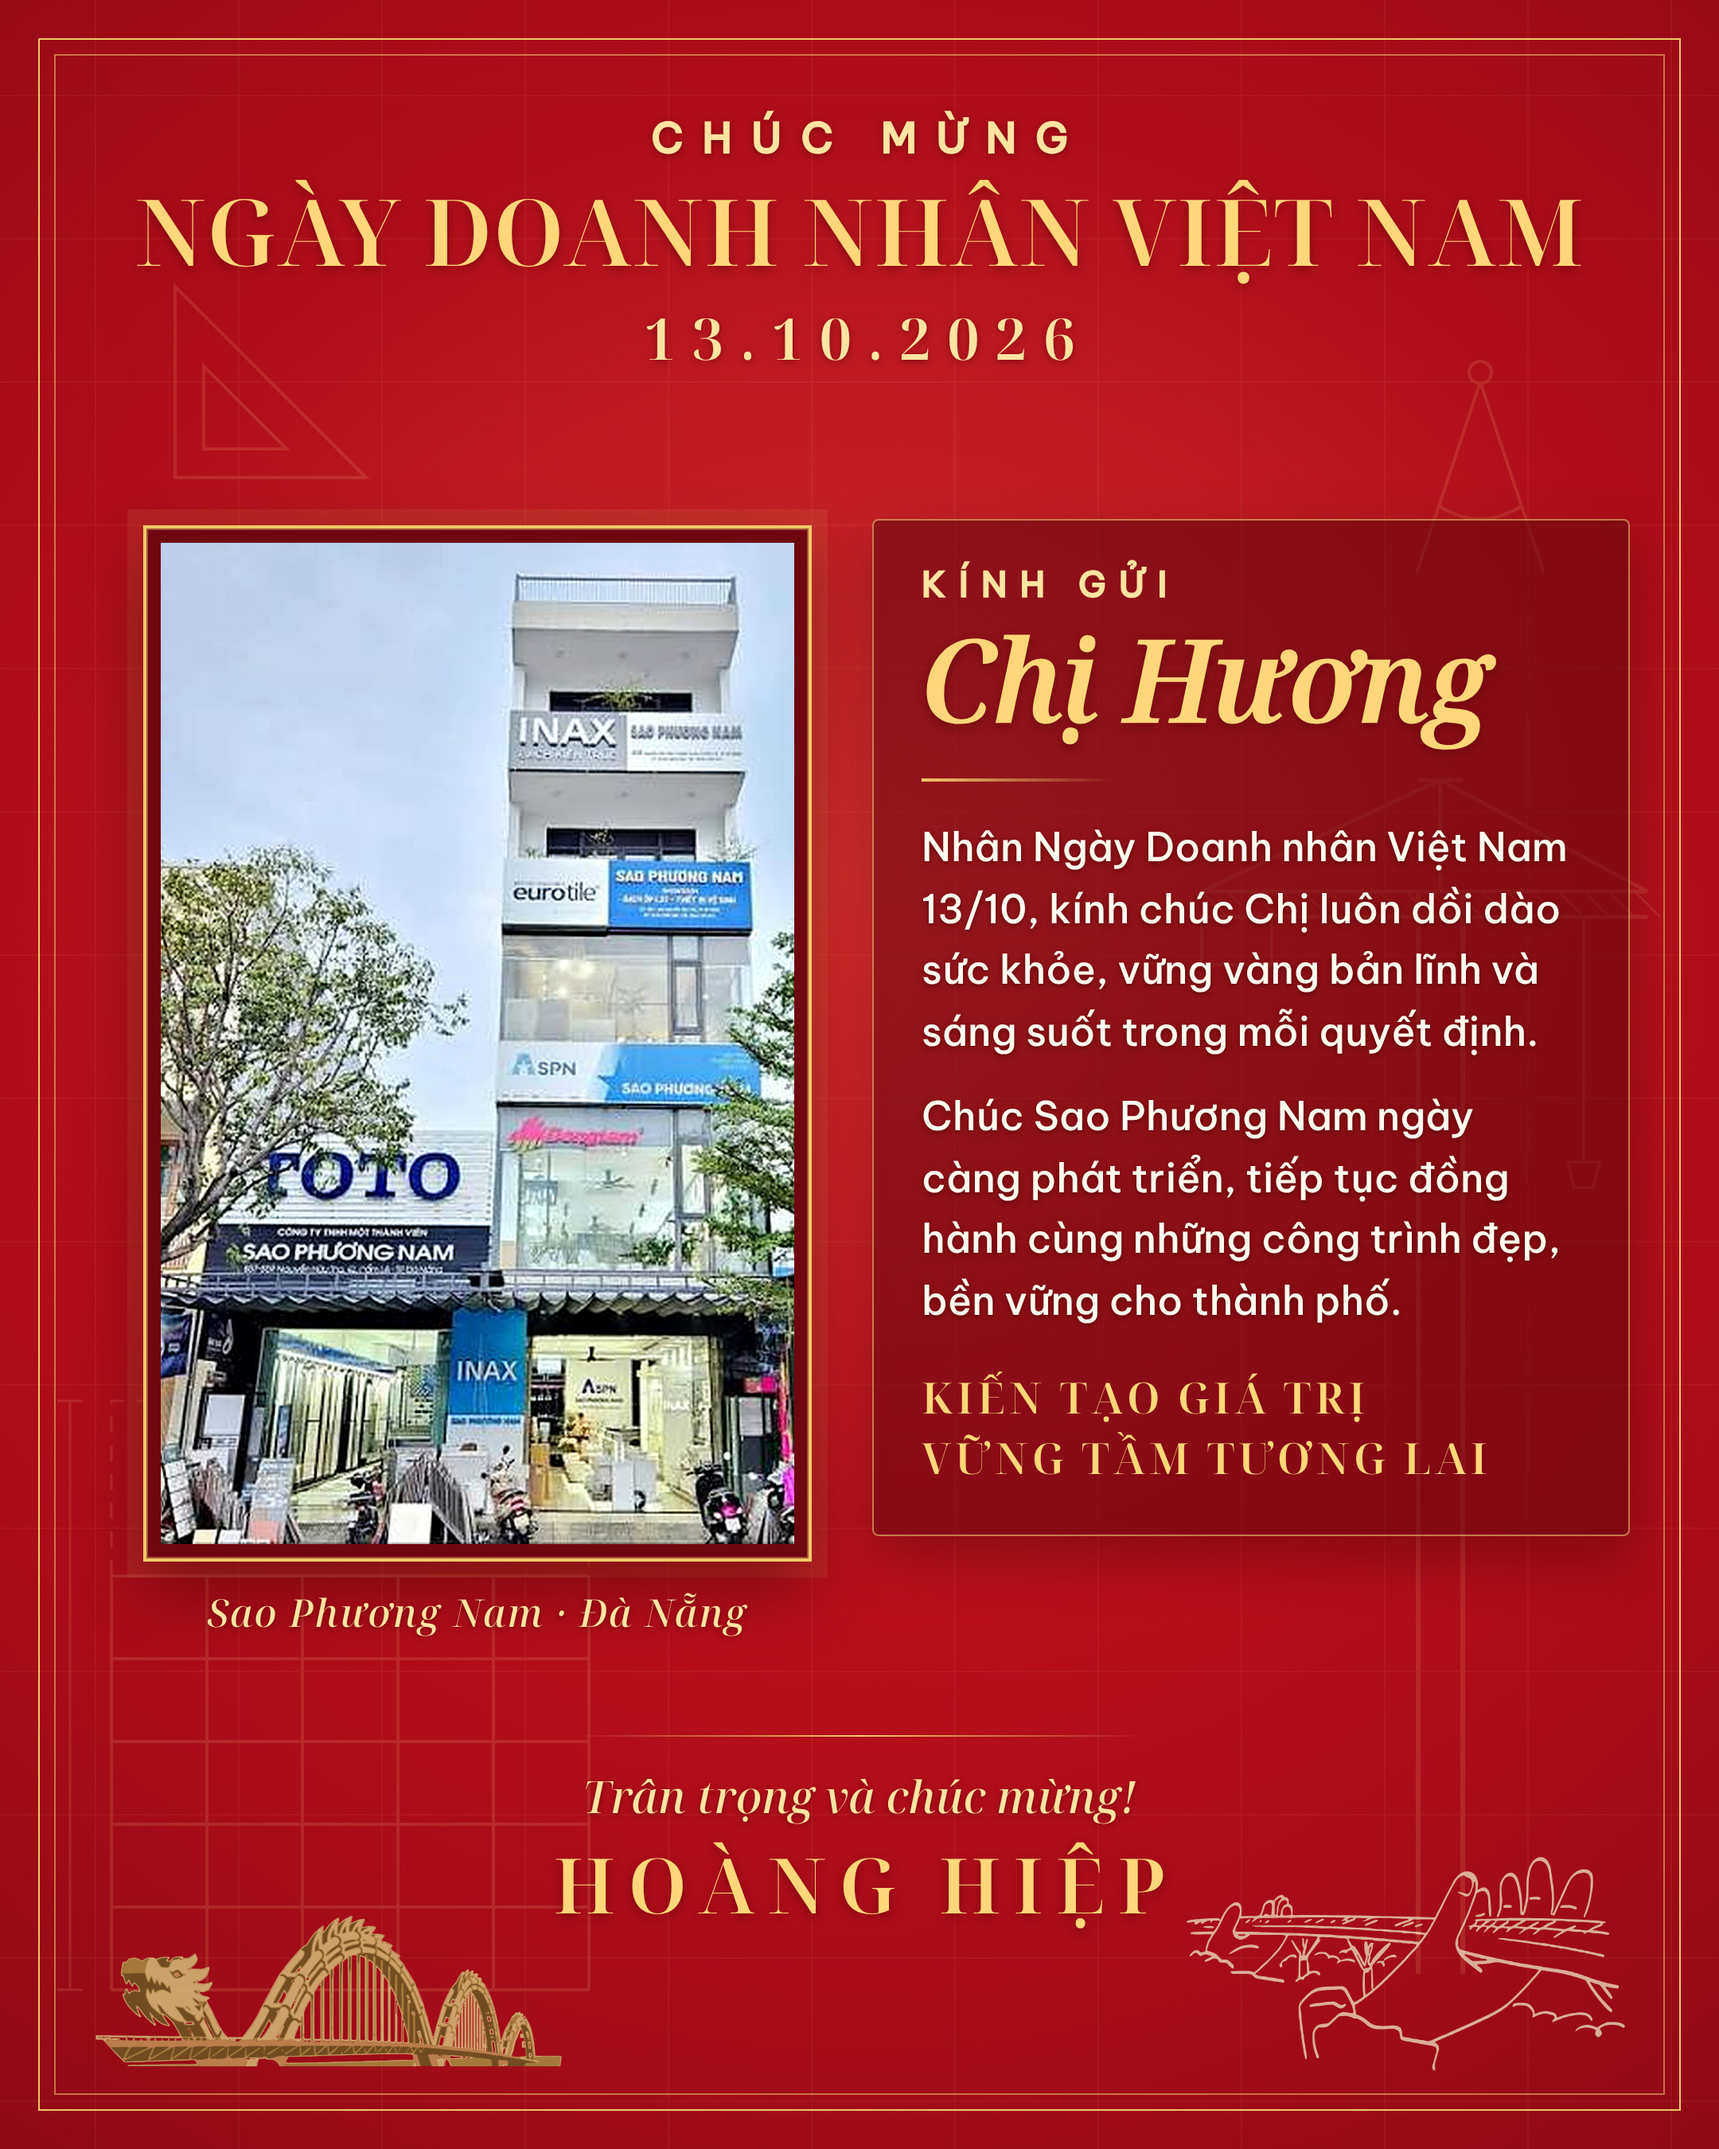
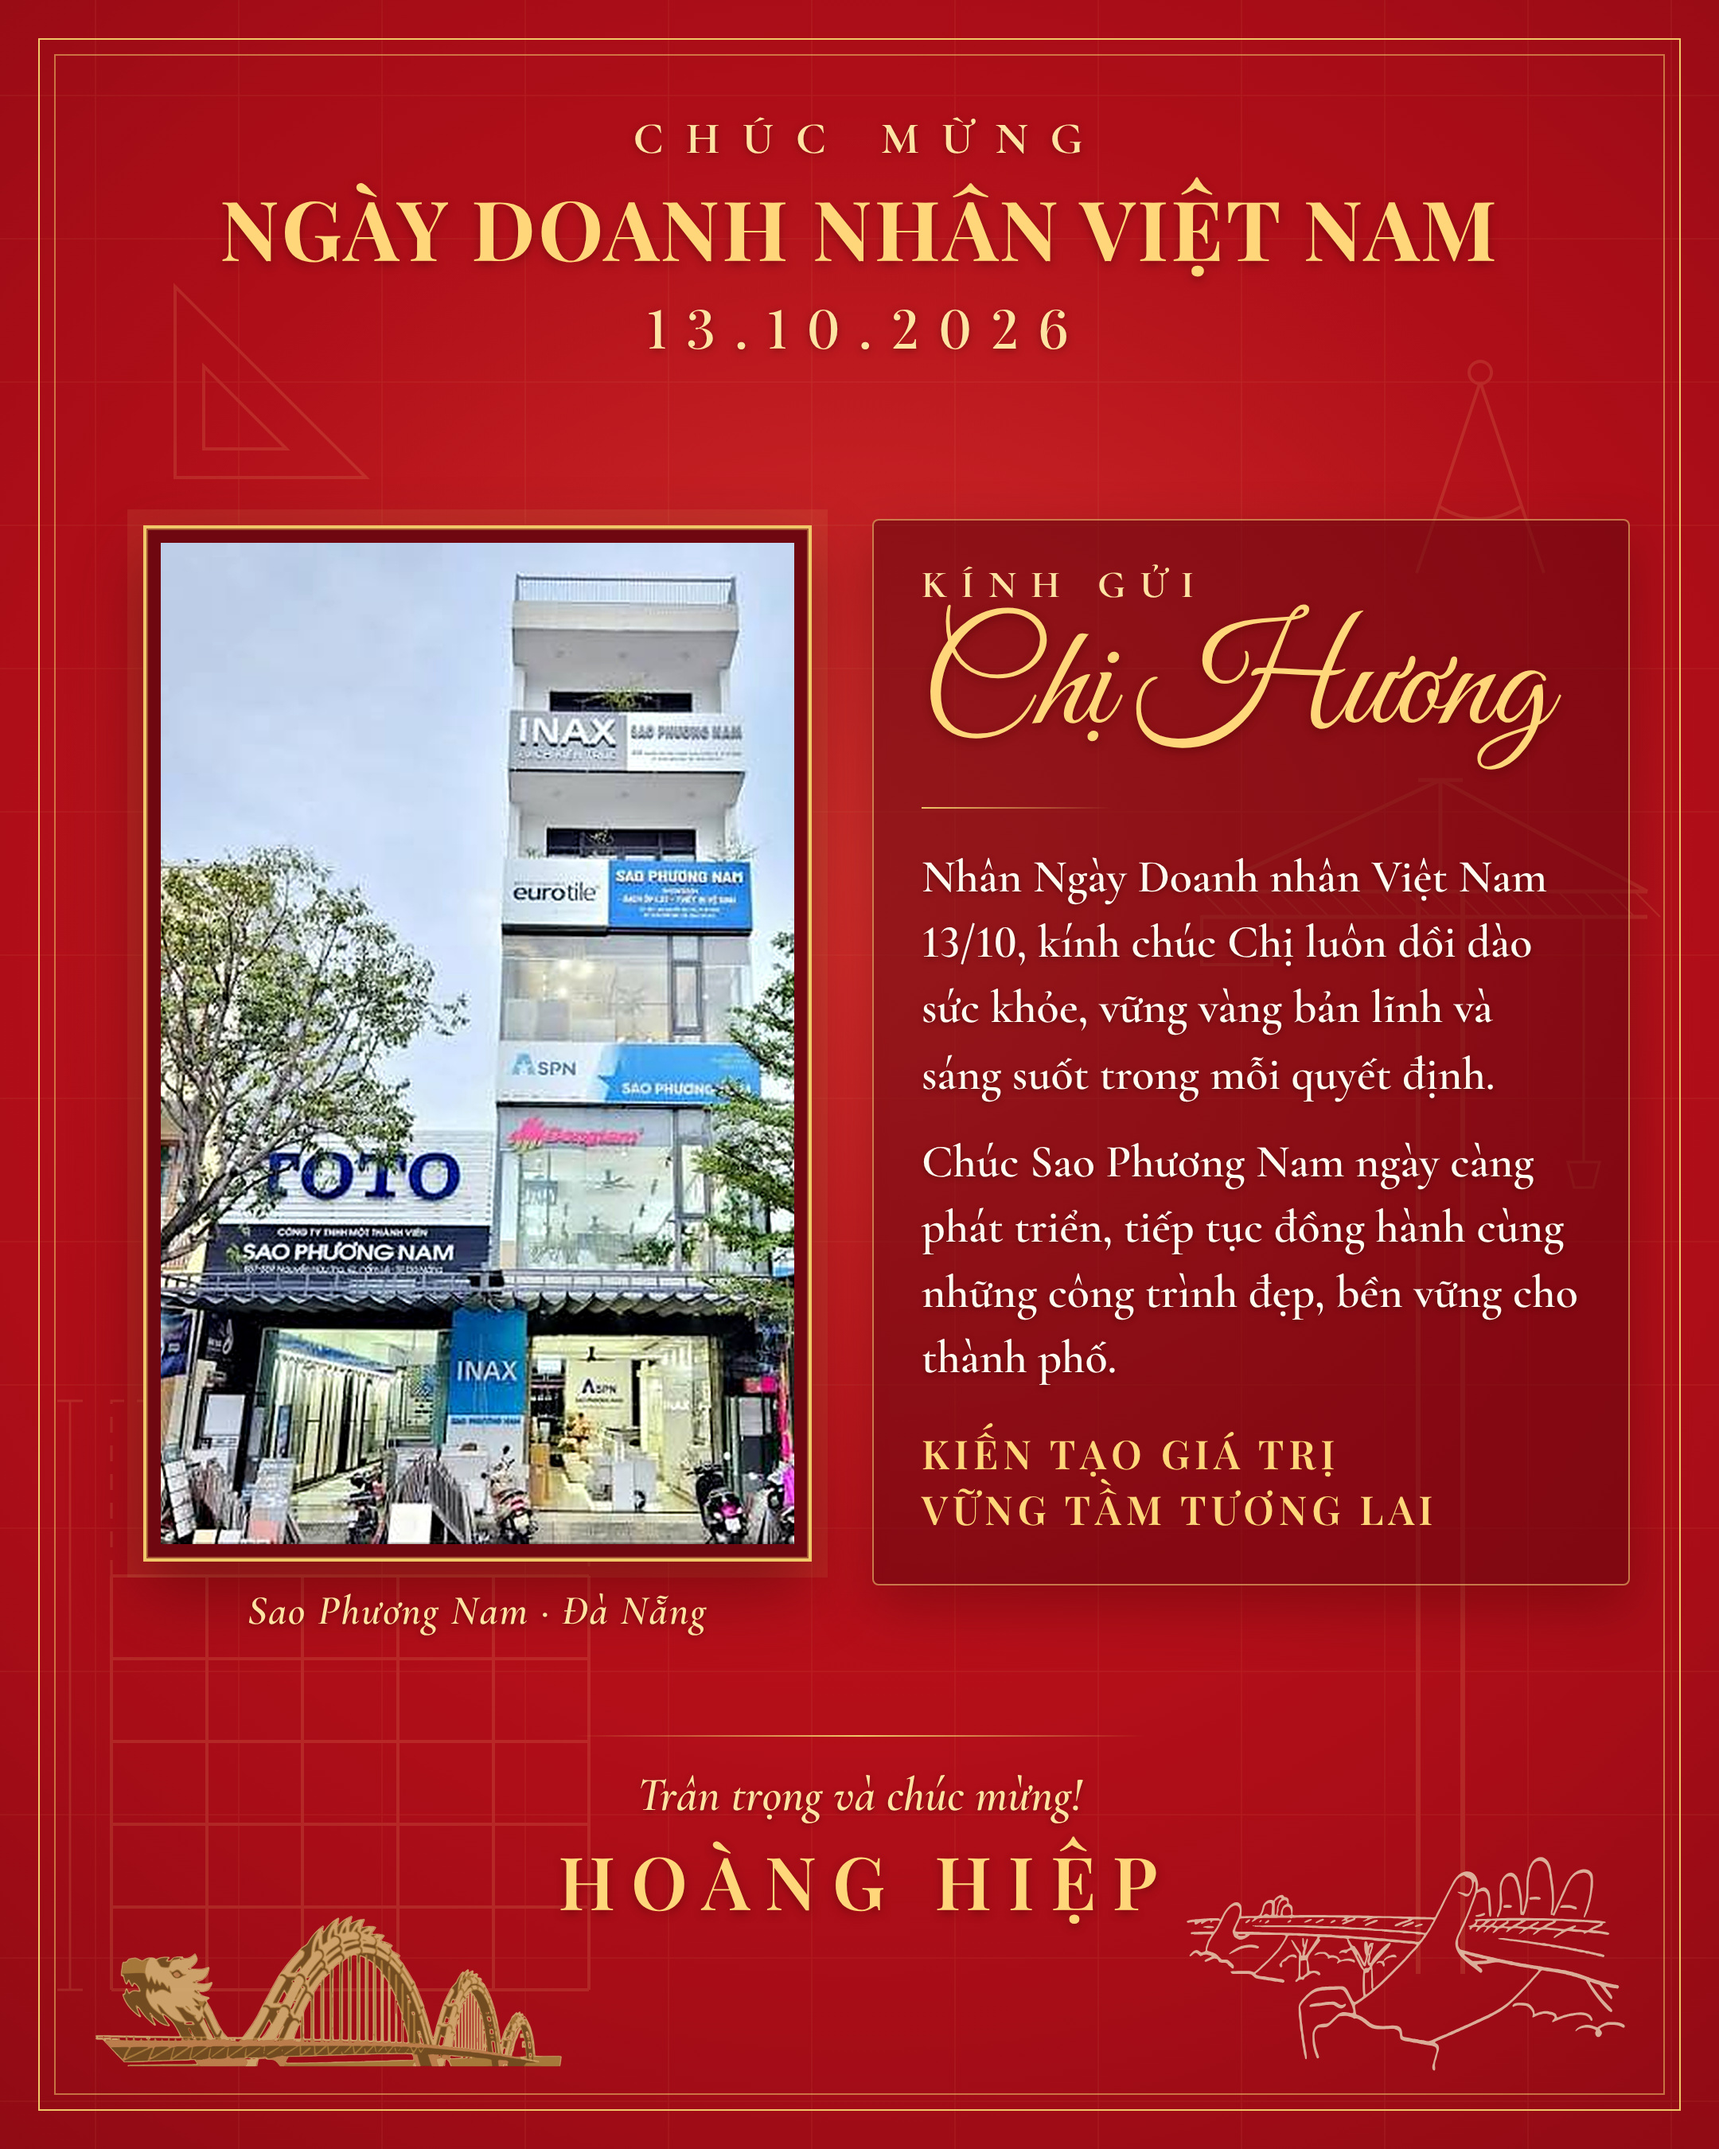
Thiệp chị Hương: bộ chữ sang – Playfair Display, Cormorant Garamond, Great Vibes
Claude-Session: https://claude.ai/code/session_01Noi56VZ885EaUZ236ZNbAP

diff --git a/thiep/thiep-chi-huong.html b/thiep/thiep-chi-huong.html
@@ -1,6 +1,6 @@
 <!doctype html><html lang="vi"><head><meta charset="utf-8">
 <title>Thiệp 13.10 – Chị Hương</title>
-<link href="https://fonts.googleapis.com/css2?family=Noto+Serif+Display:ital,wght@0,500;0,600;1,400;1,500&family=Be+Vietnam+Pro:wght@400;500&display=swap" rel="stylesheet">
+<link href="https://fonts.googleapis.com/css2?family=Noto+Serif+Display:ital,wght@0,500;0,600;1,400;1,500&family=Be+Vietnam+Pro:wght@400;500&family=Playfair+Display:ital,wght@0,500;0,600;0,700;1,500&family=Cormorant+Garamond:ital,wght@0,500;0,600;0,700;1,500;1,600&family=Great+Vibes&display=swap" rel="stylesheet">
 <style>
 *{margin:0;padding:0;box-sizing:border-box}
 body{width:1080px;height:1350px;overflow:hidden;background:#8e0c14}
@@ -40,6 +40,17 @@ body{width:1080px;height:1350px;overflow:hidden;background:#8e0c14}
 .cap{font-size:24px!important;font-weight:500;color:#ffe3a3!important;text-shadow:0 1px 3px rgba(60,0,0,.5)}
 .sig .t{font-size:28px!important;font-weight:500;color:#ffe3a3!important;text-shadow:0 1px 3px rgba(60,0,0,.5)}
 .sig .n{font-size:48px!important;font-weight:700!important}
+
+.kick{font-family:'Cormorant Garamond',serif!important;font-weight:700!important;font-size:28px!important;letter-spacing:14px!important}
+.title{font-family:'Playfair Display',serif!important;font-weight:700!important;font-size:52px!important;letter-spacing:1.5px!important}
+.date{font-variant-numeric:lining-nums;font-family:'Playfair Display',serif!important;font-weight:500!important;font-size:34px!important;letter-spacing:12px!important}
+.to{font-family:'Cormorant Garamond',serif!important;font-weight:700!important;font-size:24px!important;letter-spacing:9px!important}
+.name{font-family:'Great Vibes',cursive!important;font-style:normal!important;font-weight:400!important;font-size:92px!important;line-height:1.05!important;margin-top:4px!important}
+.wish{font-variant-numeric:lining-nums;font-feature-settings:'lnum' 1;font-family:'Cormorant Garamond',serif!important;font-weight:600!important;font-size:29px!important;line-height:1.42!important}
+.motto{font-family:'Playfair Display',serif!important;font-weight:600!important;font-size:25px!important;letter-spacing:3px!important}
+.cap{font-family:'Cormorant Garamond',serif!important;font-style:italic!important;font-weight:600!important;font-size:26px!important}
+.sig .t{font-family:'Cormorant Garamond',serif!important;font-style:italic!important;font-weight:600!important;font-size:30px!important}
+.sig .n{font-family:'Playfair Display',serif!important;font-weight:600!important;font-size:46px!important;letter-spacing:10px!important}
 </style></head><body><div class="card">
 <svg style="position:absolute;left:0;top:0" width="1080" height="1350" viewBox="0 0 1080 1350"><g opacity=".13" fill="none"><path d="M891 1240 V560 M919 1240 V560" stroke="#ffd98a" stroke-width="3"/><path d="" stroke="#ffd98a" stroke-width="1.4"/><path d="M755 560 H1035 M755 576 H1035 M905 490 L755 560 M905 490 L1035 560 M891 490 H919 M905 490 V560" fill="none" stroke="#ffd98a" stroke-width="2.4"/><path d="M755 560 L771 576 M771 560 L787 576 M787 560 L803 576 M803 560 L819 576 M819 560 L835 576 M835 560 L851 576 M851 560 L867 576 M867 560 L883 576 M883 560 L899 576 M899 560 L915 576 M915 560 L931 576 M931 560 L947 576 M947 560 L963 576 M963 560 L979 576 M979 560 L995 576 M995 560 L1011 576 M1011 560 L1027 576 M1027 560 L1043 576" stroke="#ffd98a" stroke-width="1.2"/><rect x="755" y="576" width="44" height="30" fill="none" stroke="#ffd98a" stroke-width="2"/><path d="M995 576 V730" stroke="#ffd98a" stroke-width="1.6"/><path d="M985 730 h20 l-4 16 h-12 z" fill="none" stroke="#ffd98a" stroke-width="1.6"/><path d="M70 1250 H370 M70 1198 H370 M70 1146 H370 M70 1094 H370 M70 1042 H370 M70 990 H370 M70 1250 V990 M130 1250 V990 M190 1250 V990 M250 1250 V990 M310 1250 V990 M370 1250 V990" stroke="#ffd98a" stroke-width="2"/><path d="M70 990 V880 H370 V990" fill="none" stroke="#ffd98a" stroke-width="1.6" stroke-dasharray="10 8"/><path d="M44 1250 V880 M36 1250 h16 M36 880 h16" stroke="#ffd98a" stroke-width="1.4"/><path d="M0 60 H1080 M0 150 H1080 M0 240 H1080 M0 330 H1080 M0 420 H1080 M0 510 H1080 M0 600 H1080 M0 690 H1080 M0 780 H1080 M0 870 H1080 M0 960 H1080 M0 1050 H1080 M0 1140 H1080 M0 1230 H1080 M0 1320 H1080 M60 0 V1350 M150 0 V1350 M240 0 V1350 M330 0 V1350 M420 0 V1350 M510 0 V1350 M600 0 V1350 M690 0 V1350 M780 0 V1350 M870 0 V1350 M960 0 V1350 M1050 0 V1350" stroke="#ffd98a" stroke-width=".8" opacity=".5"/><g transform="translate(930 300)"><path d="M0 -60 L-40 60 M0 -60 L40 60 M-26 18 Q0 34 26 18" fill="none" stroke="#ffd98a" stroke-width="2"/><circle cx="0" cy="-66" r="7" fill="none" stroke="#ffd98a" stroke-width="2"/></g><path d="M110 300 L230 300 L110 180 Z M128 282 L180 282 L128 230 Z" fill="none" stroke="#ffd98a" stroke-width="2"/></g></svg>
 <div class="frame"></div><div class="frame2"></div>
